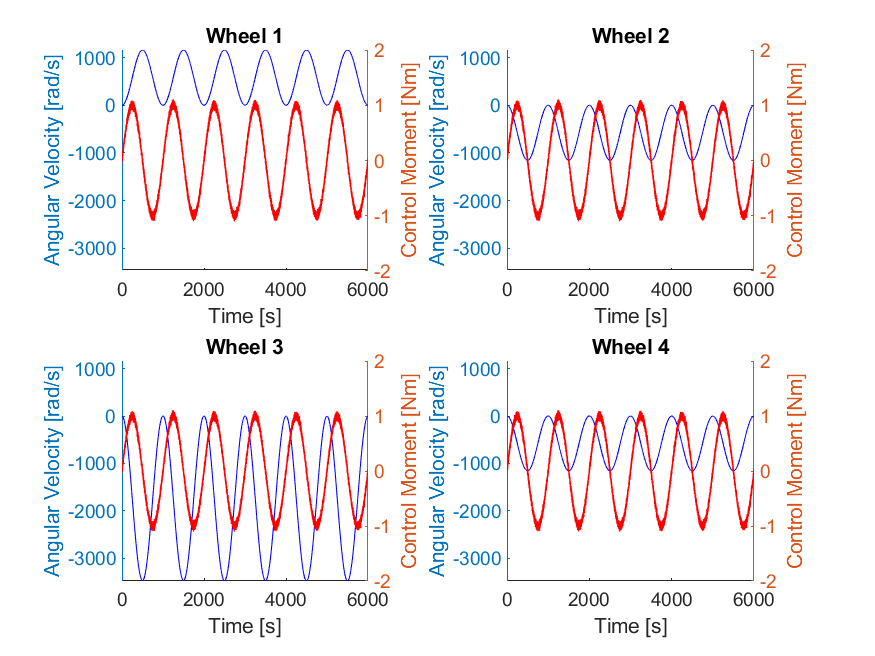
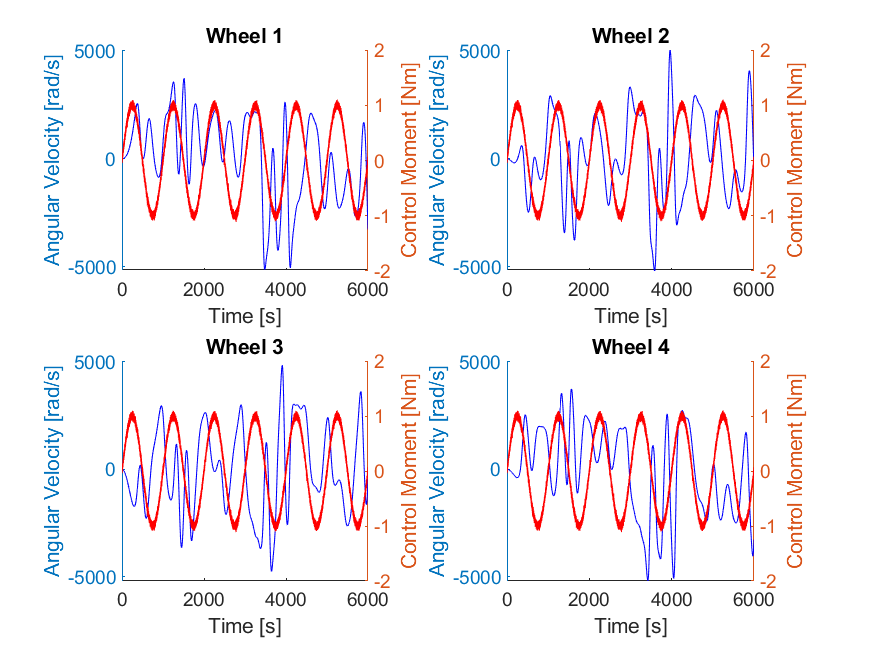
updated plots with quaternion noise (still fixing angular velocity noise)

diff --git a/src/ps9.m b/src/ps9.m
@@ -1,5 +1,6 @@
 close all; clear; clc;
 savePlots = true;
+sinWave = false;
 modelVars
 
 %% Problem 2
@@ -27,7 +28,7 @@ for n = 1:4
     xlabel("Time [s]")
 end
 
-saveAsBool(gcf, 'Images/ps9_problem2.png', savePlots)
+saveAsBool(gcf, 'Images/ps9_problem2.png', savePlots & sinWave)
 
 %% Question 3
 % Get attitude determination error

diff --git a/src/modelVars.m b/src/modelVars.m
@@ -13,8 +13,8 @@ useFict = true;
 % useFict = false;
 
 % Do we use linear or nonlinear control model?
-% useLinearModel = true;
-useLinearModel = false;
+useLinearModel = true;
+% useLinearModel = false;
 
 %% General Constants
 cm = computeCM('res/mass.csv');
